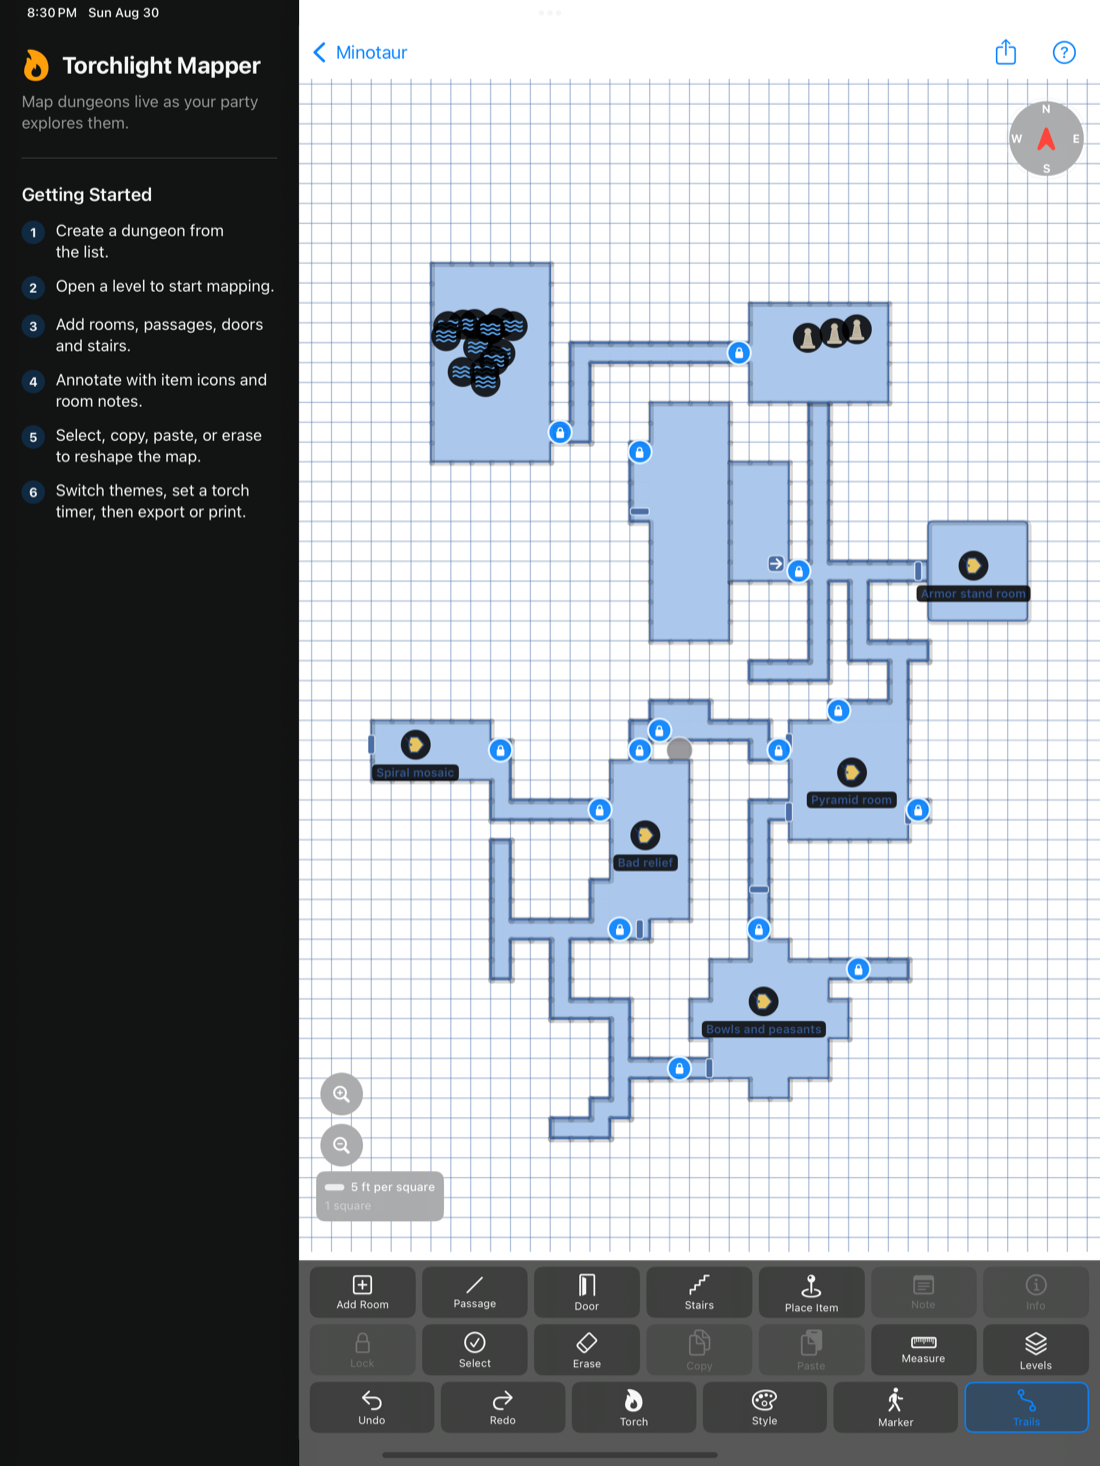
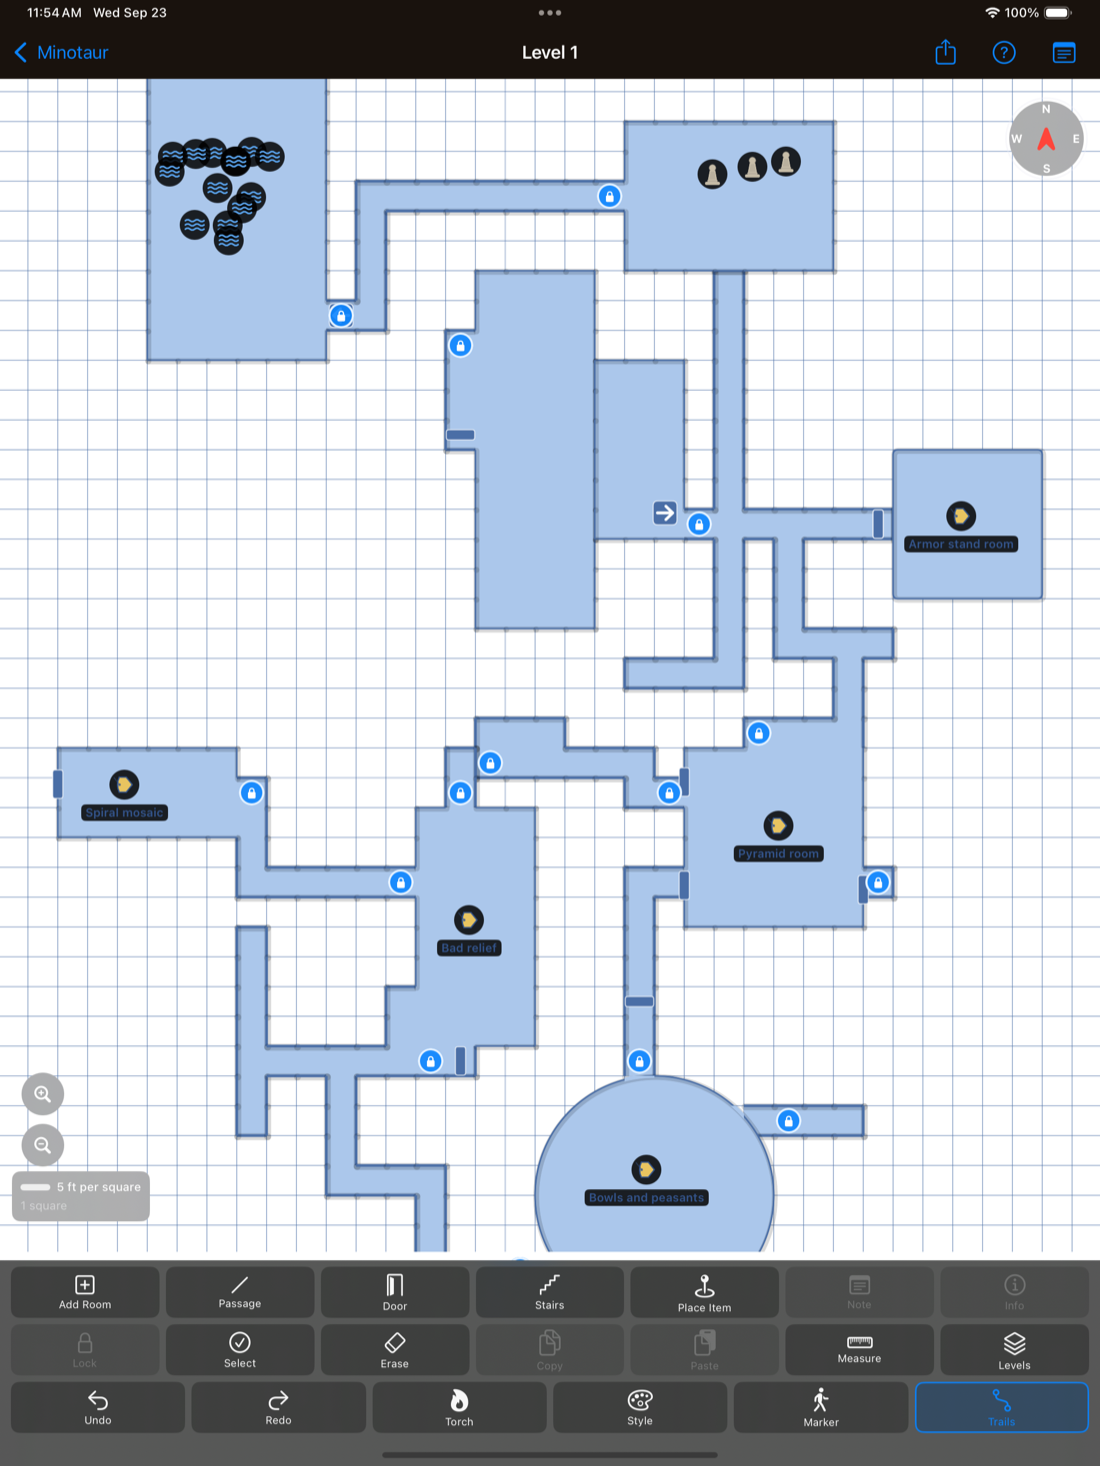
Regenerate every screenshot from the current app build
The image set dated from 30 August and had drifted well out of sync with the app.
hero-ipad.png still showed the regular-width sidebar removed in mid-September, and
it was used twice: once as a hero, once in the gallery with alt text that read
"The map editor on iPad with a sidebar". feature-rooms, feature-notes and
feature-stairs showed a toolbar offering Corridor, Freehand, Fog and Optimize,
none of which exist any more, and feature-passages still offered Duplicate,
Mirror H and Mirror V.

All thirteen images are now generated by UITests/WebsiteScreenshotUITests in the
app repo, through Scripts/capture-website-screenshots.sh, at the same dimensions
the page already used (800px wide, 1100px for the iPad hero), so the layout is
unchanged by the swap.

Copy corrected alongside them:

- The iPad gallery figure no longer claims a sidebar.
- feature-rooms alt text describes the five room shapes the capture shows.
- feature-share alt text describes the app's own Share Dungeon sheet rather than
  the iOS share sheet, which is what that capture actually shows.

README now documents the regeneration command and says not to hand-copy images
into images/, since that is how the set rotted unnoticed in the first place.

diff --git a/index.html b/index.html
@@ -165,7 +165,7 @@
         <p class="section-lead">Captured on iPhone and iPad.</p>
         <div class="gallery">
             <figure>
-                <img src="images/feature-rooms.png" alt="Adding a room by shape and dimensions">
+                <img src="images/feature-rooms.png" alt="Square, rectangular, round, hexagonal, and oval rooms laid out on the grid">
                 <figcaption>Add a room by shape or exact size</figcaption>
             </figure>
             <figure>
@@ -185,7 +185,7 @@
                 <figcaption>Export to PDF or PNG</figcaption>
             </figure>
             <figure>
-                <img src="images/feature-share.png" alt="Sharing a dungeon file through the iOS share sheet">
+                <img src="images/feature-share.png" alt="The Share Dungeon sheet, naming the dungeon and its version before it is sent">
                 <figcaption>Share the dungeon as a file</figcaption>
             </figure>
             <figure>
@@ -193,8 +193,8 @@
                 <figcaption>Torch timer for live play</figcaption>
             </figure>
             <figure>
-                <img src="images/hero-ipad.png" alt="The map editor on iPad with a sidebar">
-                <figcaption>Full sidebar layout on iPad</figcaption>
+                <img src="images/hero-ipad.png" alt="The map editor filling the width of an iPad, with the tool palette along the bottom">
+                <figcaption>The whole iPad screen is map</figcaption>
             </figure>
         </div>
     </div>

diff --git a/README.md b/README.md
@@ -18,7 +18,7 @@ support.html          Contact, bug-report guidance, FAQ  -> App Store Support UR
 privacy-policy.html   Privacy Policy                     -> App Store Privacy Policy URL
 terms-of-use.html     Terms of Use / EULA
 css/styles.css        Torchlight dark theme
-images/               Screenshots captured from the iPhone and iPad simulators
+images/               Screenshots, generated from the app (see "Screenshots" below)
 .nojekyll             Serve files verbatim; skip Jekyll processing
 ```
 
@@ -53,7 +53,33 @@ Keep these in sync when the app changes:
 - **Privacy Policy** whenever the app's data handling changes at all, and bump its
   effective date. It must continue to match the app's App Store privacy label and
   its `PrivacyInfo.xcprivacy` manifest.
-- **Screenshots** in `images/` after a visual redesign.
+- **Screenshots** in `images/` — regenerate them rather than editing them; see below.
+
+## Screenshots
+
+Every file in `images/` is produced by a UI test in the app repository, not
+captured by hand:
+
+```bash
+# in the app repo
+bash Scripts/capture-website-screenshots.sh
+cp screenshots/website/*.png ../torchlight-mapper-website/images/
+```
+
+That suite (`UITests/WebsiteScreenshotUITests.swift`) names each attachment after
+the file it becomes here, so the capture step fails if an image this page
+references stopped being produced. It runs the iPhone shots on an iPhone 16 Pro
+Max and the iPad shot on an iPad Pro 13-inch, pins the dark appearance to match
+this site, and downscales to the widths the page expects (800px, and 1100px for
+`hero-ipad.png`).
+
+**Do not hand-copy screenshots into this folder.** The first image set was
+assembled that way and rotted invisibly: by the time anyone compared it to the
+app, the page was advertising four tools that had been removed (Corridor,
+Freehand, Fog, Optimize) and its iPad shot still showed a sidebar that had been
+deleted months earlier. A copied PNG has no relationship to the code, so nothing
+can notice when it goes stale. A generated one is only ever as old as the last
+run.
 
 ## Preview before pushing
 
